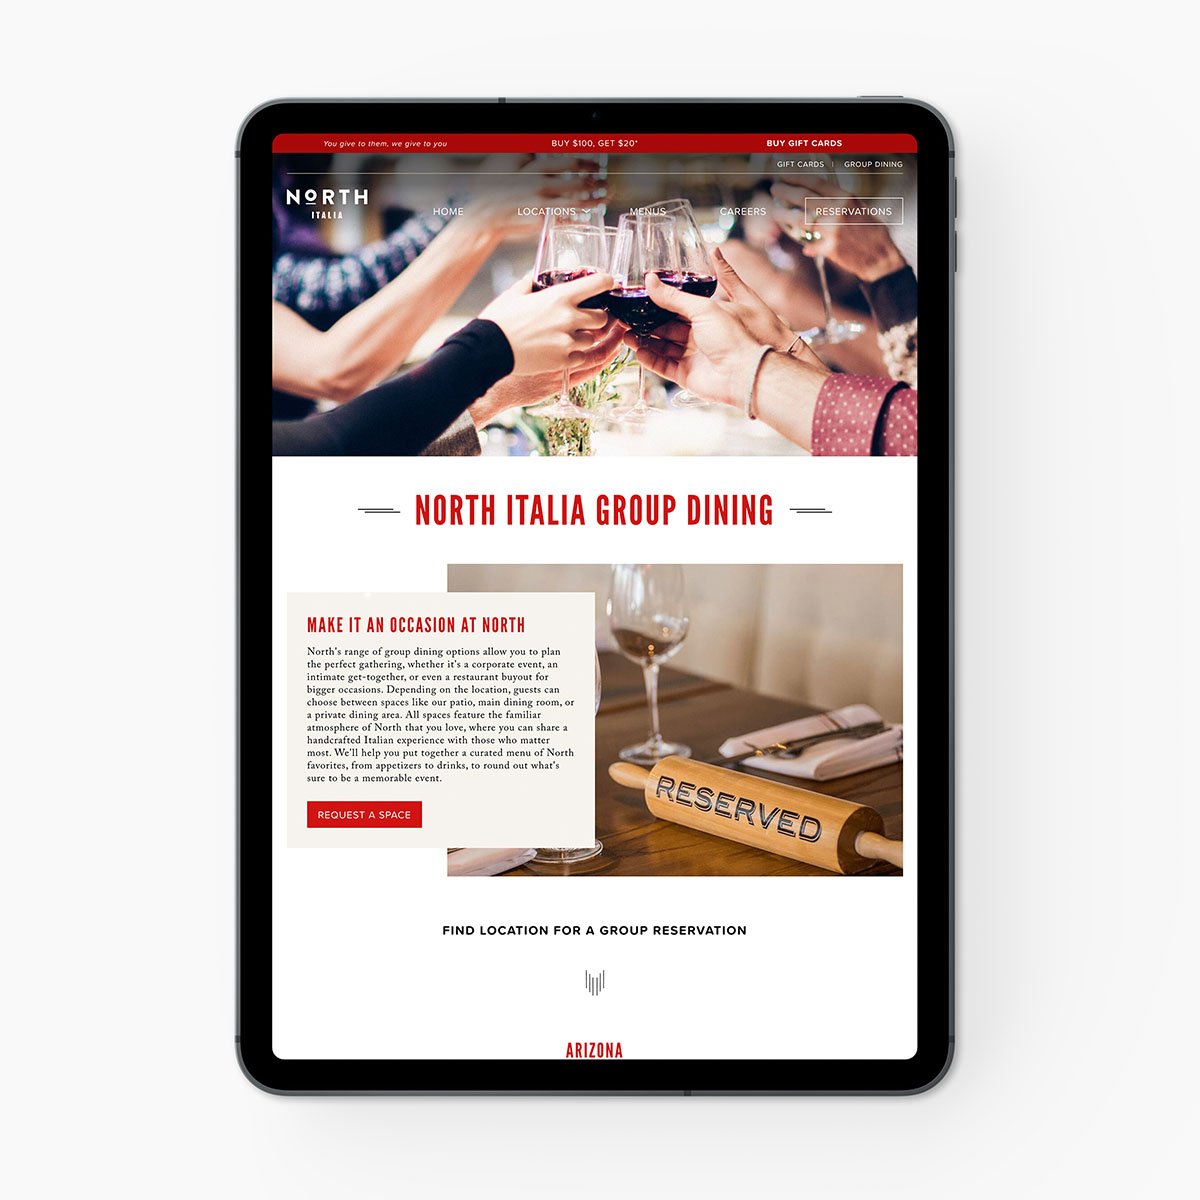
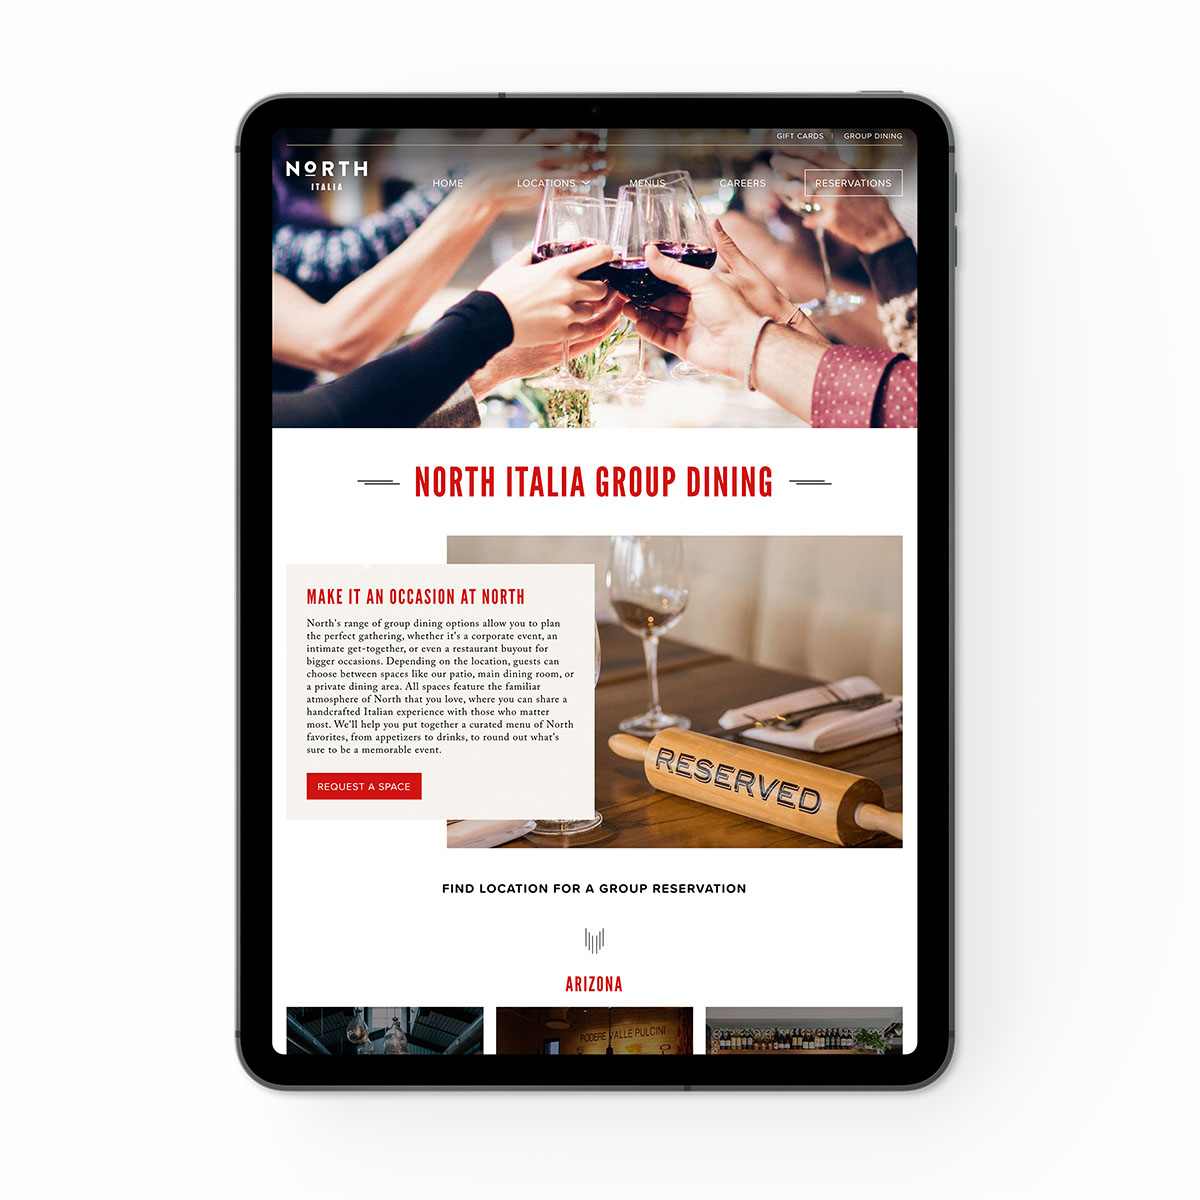
chore: scale down image slider and header info

Changed region(s): [[0.185, 0.0617, 0.8017, 0.74], [0.185, 0.7708, 0.8017, 0.925]]

diff --git a/src/components/Header/Header.scss b/src/components/Header/Header.scss
@@ -11,16 +11,36 @@ header {
   justify-content: center;
   color: white;
 
+  .cover-heading {
+    color: #eee;
+    opacity: 0.8;
+    padding: 0;
+
+    h2, h3, h4 {
+      @include mq(phones) { margin: .25rem 0; }
+      @include mq(phonel) { margin: .5rem 0; }
+      @include mq(tabletp) { margin: 1rem 0; }
+    }
+
+    text-shadow: 0.05rem 0.05rem 0.15rem rgba(0, 0, 0, 0.75);
+  }
+  .subtitle {
+    color: #fff;
+  }
+
   button,
   a.button {
     background-color: transparent;
     border-color: #fff;
     text-decoration: none;
-    padding: .4rem .6rem;
     margin: 0.2rem;
+
+    @include mq(phones) { padding: .2rem .4rem; }
+    @include mq(phonel) { padding: .3rem .6rem; }
+    @include mq(tabletp) { padding: .4rem .8rem; }
   }
   .header__links {
-    padding: 1rem 0;
+    padding: .5rem 0;
     display: flex;
     flex-wrap: wrap;
     align-items: center;

diff --git a/src/sass/_responsive.scss b/src/sass/_responsive.scss
@@ -11,7 +11,7 @@ $h6_fs: $header_fs;
 
 body {
   @include mq(phones) {
-    $m: 0.8;
+    $m: 0.65;
     h1 { font-size: $h1_fs * $m }
     h2 { font-size: $h2_fs * $m }
     h3 { font-size: $h3_fs * $m }
@@ -24,7 +24,7 @@ body {
     .card-details { padding: .25rem .5rem 1rem .5rem }
   }
   @include mq(phonel) {
-    $m: 0.85;
+    $m: 0.8;
     h1 { font-size: $h1_fs * $m }
     h2 { font-size: $h2_fs * $m }
     h3 { font-size: $h3_fs * $m }

diff --git a/src/components/App/App.scss b/src/components/App/App.scss
@@ -15,17 +15,6 @@
     flex-wrap: wrap;
     justify-content: space-between;
   }
-
-  .cover-heading {
-    color: #eee;
-    opacity: 0.8;
-    padding: 0;
-    margin: 0;
-    text-shadow: 0.05rem 0.05rem 0.15rem rgba(0, 0, 0, 0.75);
-  }
-  .subtitle {
-    color: #fff;
-  }
 }
 
 .content-overlay {
@@ -46,6 +35,10 @@
     top: 0;
     height: 100%;
   }
+}
+
+p {
+  margin: 1.25rem 0;
 }
 
 a {

diff --git a/src/components/Modal/Modal.scss b/src/components/Modal/Modal.scss
@@ -79,7 +79,7 @@ $pad-lg: 1rem 4rem;
       font-weight: 800;
       opacity: 0.9;
       background-color: lighten($color-tertiary, 20);
-      padding: 1rem 2rem;
+      padding: .5rem 2rem;
       letter-spacing: 0.07rem;
 
       p {

diff --git a/src/components/Slider/Slider.scss b/src/components/Slider/Slider.scss
@@ -46,7 +46,7 @@
 
   .slick-dots {
     position: relative;
-    bottom: 0;
+    bottom: 4rem;
 
     li {
       margin: 0;
